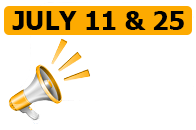
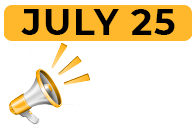
changes interview date chnages

Changed region(s): [[0.0, 0.0308, 0.9796, 0.8923]]

diff --git a/src/components/WalkInJourneyPage.tsx b/src/components/WalkInJourneyPage.tsx
@@ -5,7 +5,7 @@ import WalkInInterviewStepsModal from "./WalkInInterviewStepsModal";
 const FLOWS = [
   {
     id: "walkin",
-    badge: "JULY 11 & 25",
+    badge: "JULY 25",
     title: "Walk-in Interview",
     subtitle: "via ASKOXY.AI Landing Page",
     url: "https://www.askoxy.ai/",
@@ -16,7 +16,7 @@ const FLOWS = [
     border: "#DDD6FE",
     icon: "🏢",
     entryStep: 'Open askoxy.ai in your browser and press Enter.',
-    step2Title: 'Click "July 11 & 25 Walk-in Interview" Banner',
+    step2Title: 'Click "July 25 Walk-in Interview" Banner',
     step2Desc: "On the ASKOXY.AI landing page, click the banner to proceed.",
     jobsPage: "Find Your Next Opportunity",
     hasStep2: true,

diff --git a/src/components/WalkInInterviewStepsModal.tsx b/src/components/WalkInInterviewStepsModal.tsx
@@ -281,7 +281,7 @@ const WalkInInterviewStepsModal: React.FC<WalkInInterviewStepsModalProps> = ({
               <div className="flex items-center gap-2 mb-1">
                 <span className="inline-flex items-center gap-1.5 px-3 py-1 rounded-full text-xs font-semibold bg-purple-500/15 text-purple-300 border border-purple-500/20">
                   <span className="w-1.5 h-1.5 bg-purple-400 rounded-full animate-pulse"></span>
-                  July 11 & 25 Walk-in Interview
+                  July 25 Walk-in Interview
                 </span>
                 <span className="text-slate-500 text-xs">•</span>
                 <span className="text-slate-400 text-xs font-mono">{STEPS_DATA.length} Core Steps</span>

diff --git a/src/components/talktoceo/radhai.tsx b/src/components/talktoceo/radhai.tsx
@@ -548,7 +548,7 @@ const RadhAIPage: React.FC = () => {
               className="flex flex-1 cursor-pointer flex-col items-center justify-center gap-1 rounded-2xl  bg-lime-300/10 px-3 py-2.5 transition hover:bg-lime-300/20"
             >
               <span className="text-[11px] font-black uppercase tracking-wider text-lime-300 sm:text-xs">
-                🗓 Walk-in: July 11 &amp; 25
+                🗓 Walk-in: July 25
               </span>
               <button
                 onClick={(e) => { e.stopPropagation(); handleSignIn(); }}